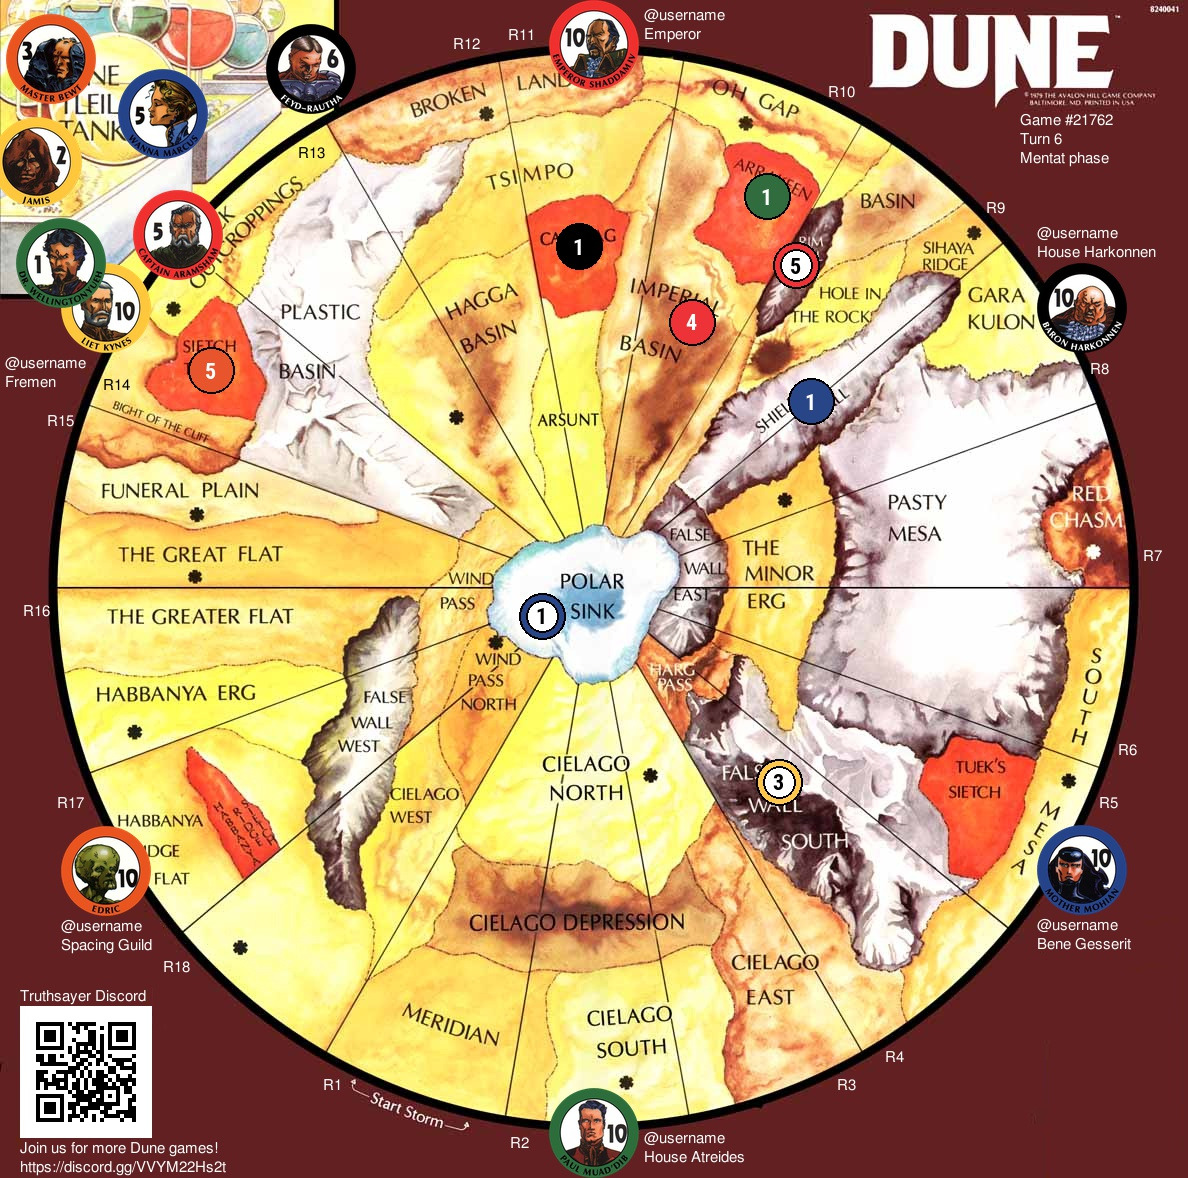
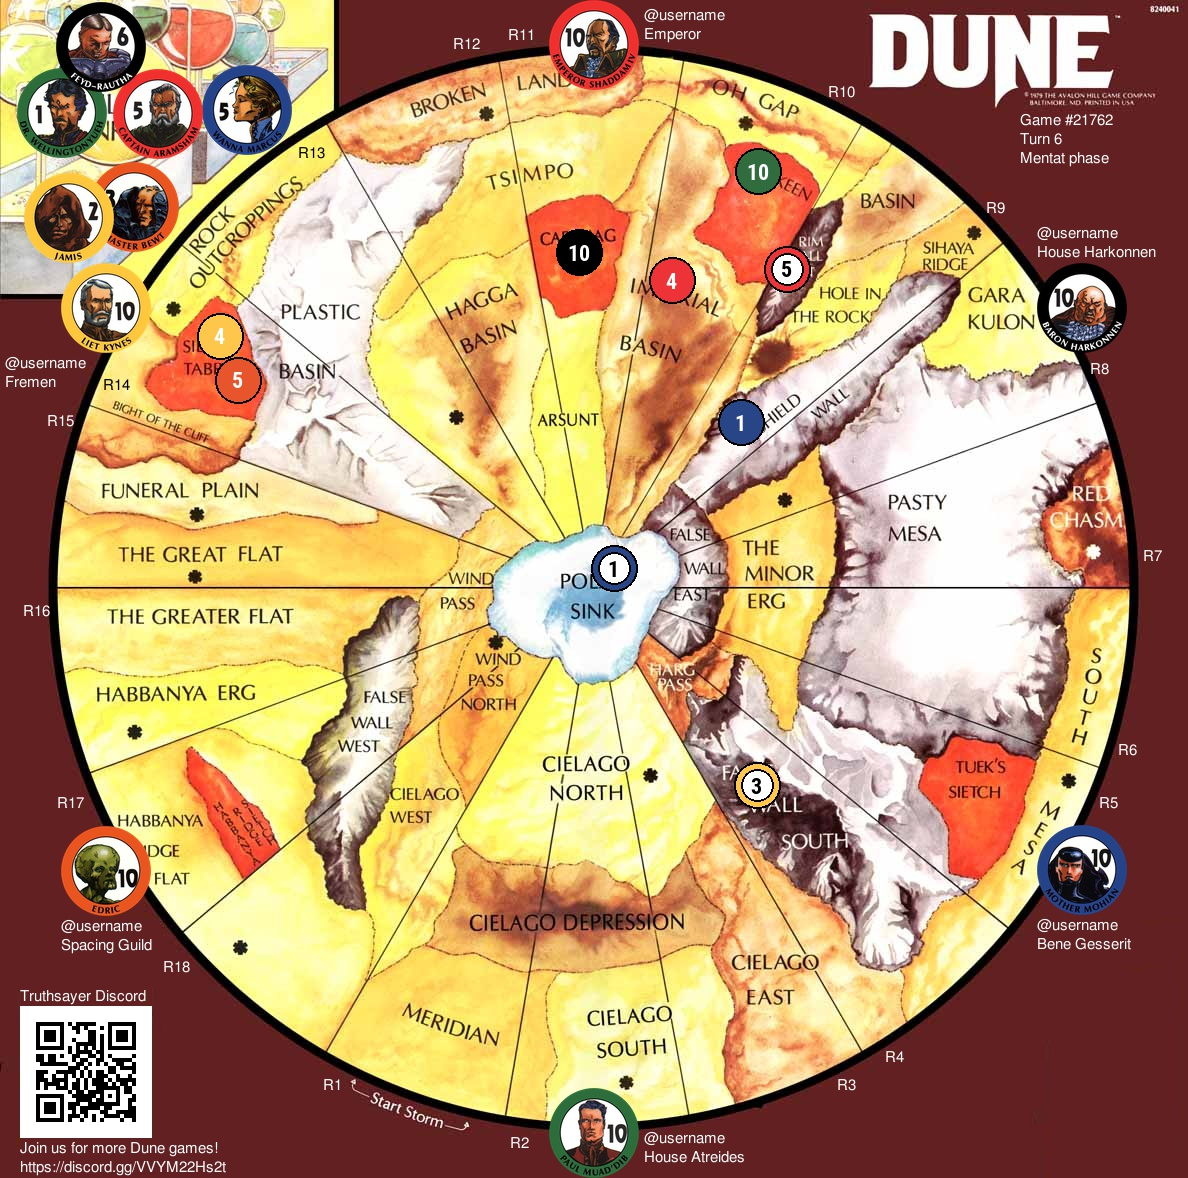
spice glare token effects

diff --git a/arrakis/generator.py b/arrakis/generator.py
@@ -210,6 +210,29 @@ class Renderer:
         self.canvas.save(self.outfile, quality=self.quality)
         del self.canvas
 
+
+def placeSpice(canvas, d, amount, x, y, outfile, spice_size=46, quality=95):
+    filename = pkg_resources.open_binary(assets, 'light_lens_flare.png')
+    token = Image.open(filename)
+    token = token.convert('RGBA')
+    width_token, height_token = token.size
+    token = token.resize((spice_size, spice_size), Image.ANTIALIAS)
+    width_token, height_token = token.size
+    del filename
+    filename = pkg_resources.open_binary(assets, 'RobotoCondensed-Bold.ttf')
+    fnt_troop = ImageFont.truetype(filename, 22)
+    del filename
+    box_target = (
+        int(x-width_token/2),
+        int(y-width_token/2),
+        int(x+width_token/2),
+        int(y+height_token/2))
+    canvas.paste(token, box_target, mask=token)
+    text = str(amount)
+    w, h = fnt_troop.getsize(text)
+    d.text((x+w/4, y+h/2), text, font=fnt_troop, fill='black', anchor='ms')
+
+
 def generateNeighborhood(centers, locations, neighbors, regions, outfile, quality=95, skip=[]):
     dl = 10
     filename = pkg_resources.open_binary(assets, 'map.png')

diff --git a/try_spice.py b/try_spice.py
@@ -1,0 +1,23 @@
+from PIL import Image, ImageDraw
+
+from arrakis.generator import placeSpice
+
+sourcefile = 'images/arrakis.jpg'
+outfile = 'images/spicy.jpg'
+
+quality = 95
+spice_size = 600
+
+canvas = Image.open(sourcefile)
+canvas = canvas.convert('RGBA')
+
+txt = Image.new('RGBA', canvas.size, (255, 255, 255, 0))
+d = ImageDraw.Draw(txt)
+
+placeSpice(canvas, d, 12, 480, 110, outfile, spice_size=spice_size, quality=quality)
+placeSpice(canvas, d, 8, 970, 220, outfile, spice_size=spice_size, quality=quality)
+placeSpice(canvas, d, 6, 650, 780, outfile, spice_size=spice_size, quality=quality)
+
+canvas = Image.alpha_composite(canvas, txt)
+canvas = canvas.convert('RGB')
+canvas.save(outfile, quality=quality)
